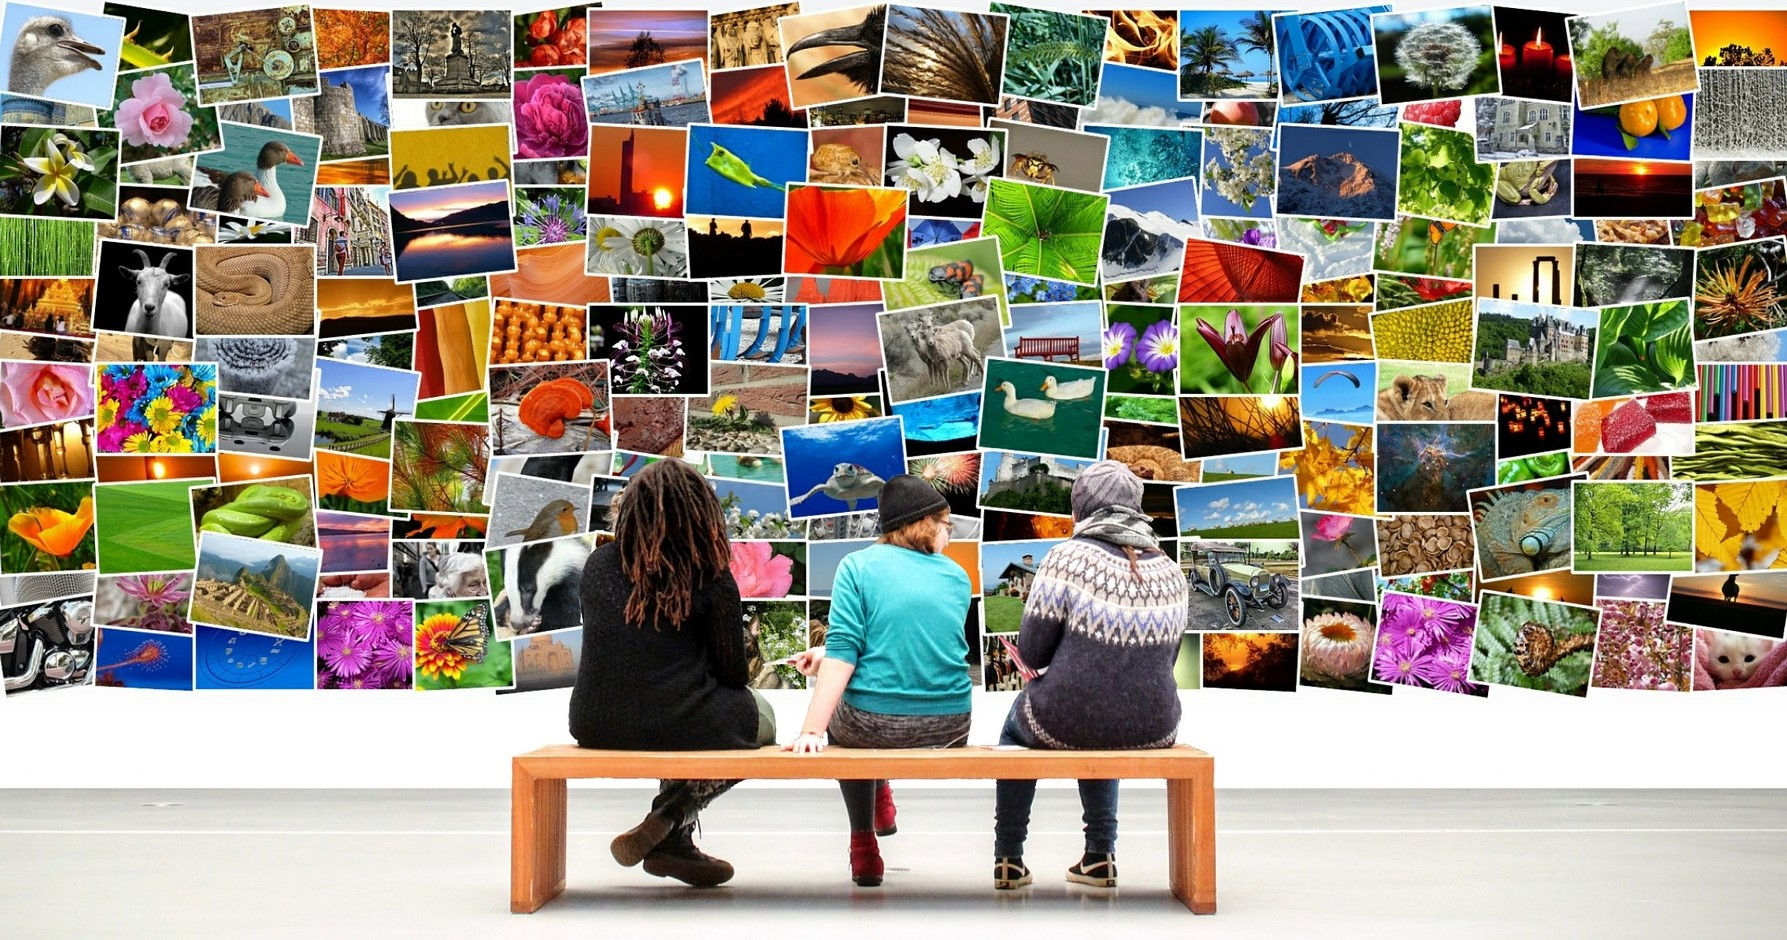
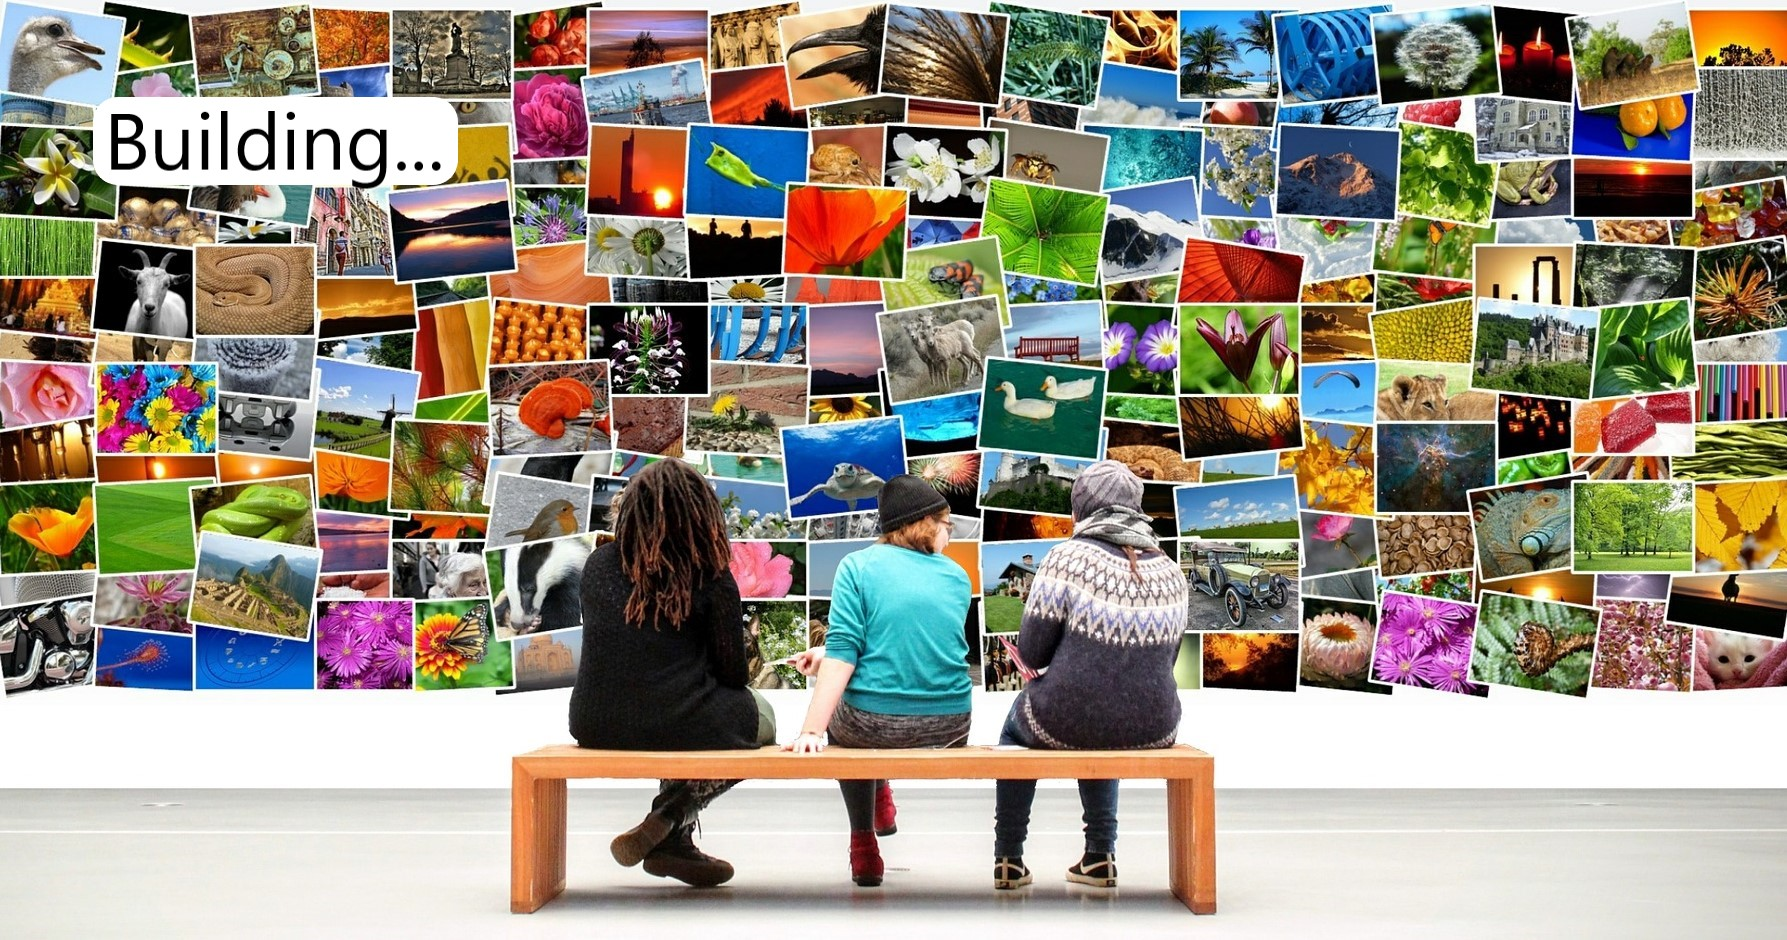
update imgs add

Changed region(s): [[0.0308, 0.0926, 0.277, 0.216]]

diff --git a/src/style.css b/src/style.css
@@ -1,3 +1,6 @@
+/* Ver possibilidade de deixar a navbar nas demais páginas com background black */
+/* Feita atualização das imagens das páginas que estão em contrução */
+
 @import url("https://fonts.googleapis.com/css2?family=Montserrat:wght@300;400;500;700;900&family=Roboto:wght@400;700&display=swap");
 @import url("https://cdnjs.cloudflare.com/ajax/libs/font-awesome/5.13.0/css/fontawesome.min.css");
 @import url("https://cdnjs.cloudflare.com/ajax/libs/font-awesome/5.13.0/css/all.min.css");
